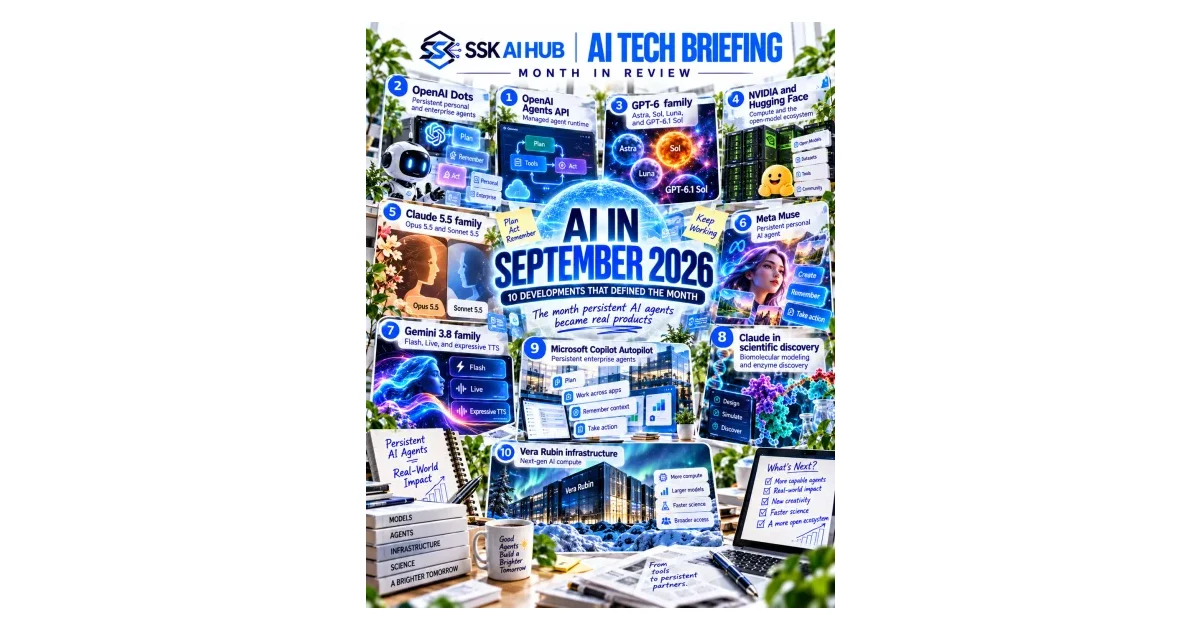
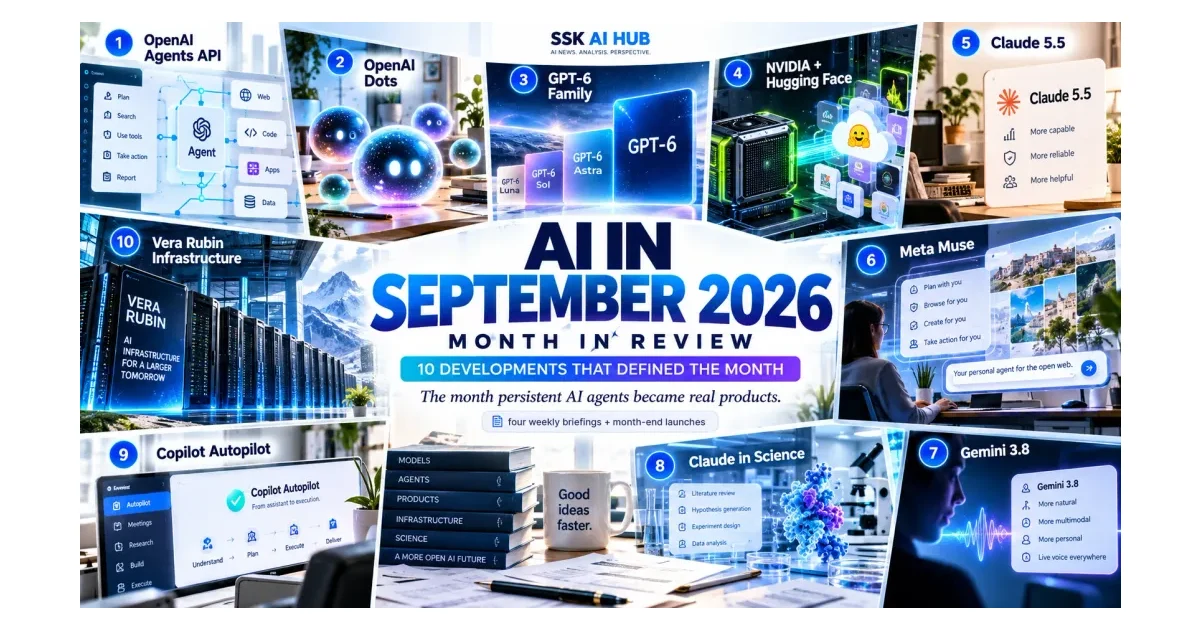
Use new horizontal and vertical covers for September monthly
Replace the September 2026 Month in Review artwork with an editor-supplied
pair matching the August edition: a wide 1672×941 hero and a vertical
1122×1402 capsule; the social card is regenerated from the hero.

Fixed inaccurate text in the supplied covers before publishing:
- GPT-6 card labeled nonexistent models (GPT-6 Nani/Pro/Mini); relabeled
  to the real September tiers Luna, Sol and Astra on both covers.
- Vertical cover's Dots note said "Smaller AIs. Bigger possibilities.";
  Dots are always-on agents, so it now reads "Always-on agents. Own
  cloud computer."
- Hero's "drawn from four weekly SSK AI Hub briefings" was untrue for
  Dots, Autopilot and Vera Rubin; now "four weekly briefings + month-end
  launches".

Claude-Session: https://claude.ai/code/session_01Qan1195ZXBavzk9qrkUSSt

diff --git a/lib/ssk-ai/issue-2026-10-01.ts b/lib/ssk-ai/issue-2026-10-01.ts
@@ -35,12 +35,13 @@ export const issueSeptember2026Monthly: SskAiIssue = {
   theme: "September was the month persistent AI agents became real products — and the system around the model became the product.",
   hero: {
     kind: "editorial-image",
-    src: "/ssk-ai/2026-10-01/ssk-ai-september-2026-social-1200x630.webp",
-    width: 1200,
-    height: 630,
-    alt: "Month-in-review cover reading 'AI in September 2026 — 10 developments that defined the month: the month persistent AI agents became real products', with numbered cards for the OpenAI Agents API, OpenAI Dots, the GPT-6 family, NVIDIA and Hugging Face, the Claude 5.5 family, Meta Muse, the Gemini 3.8 family, Claude in scientific discovery, Microsoft Copilot Autopilot and Vera Rubin infrastructure.",
-    caption: "September in one frame: the month's ten defining developments. The full-size capsule and the accessible cards follow below.",
-    description: "Editor-supplied September 2026 Month in Review cover, shown whole on a padded wide frame.",
+    src: "/ssk-ai/2026-10-01/ssk-ai-september-2026-hero.webp",
+    width: 1672,
+    height: 941,
+    alt: "Month-in-review cover reading 'AI in September 2026 — Month in Review: 10 developments that defined the month. The month persistent AI agents became real products', surrounded by numbered scenes for the OpenAI Agents API, OpenAI Dots, the GPT-6 family (Luna, Sol, Astra), NVIDIA and Hugging Face, Claude 5.5, Meta Muse, Gemini 3.8, Claude in science, Copilot Autopilot and Vera Rubin infrastructure.",
+    caption:
+      "September in one frame: the month's ten defining developments, drawn from four weekly SSK AI Hub briefings and the month-end launches.",
+    description: "Editor-supplied wide cover for the September 2026 Month in Review, in the light SSK AI Hub editorial style.",
   },
   socialImage: {
     src: "/ssk-ai/2026-10-01/ssk-ai-september-2026-social-1200x630.webp",
@@ -63,7 +64,7 @@ export const issueSeptember2026Monthly: SskAiIssue = {
       src: "/ssk-ai/2026-10-01/ssk-ai-september-2026-capsule.webp",
       width: 1122,
       height: 1402,
-      alt: "A one-page visual capsule of September 2026 listing the month's ten AI developments in numbered cards — OpenAI Agents API, OpenAI Dots, the GPT-6 family (Astra, Sol, Luna and GPT-6.1 Sol), NVIDIA and Hugging Face, the Claude 5.5 family, Meta Muse, the Gemini 3.8 family, Claude in scientific discovery, Microsoft Copilot Autopilot and Vera Rubin infrastructure — around the headline 'The month persistent AI agents became real products'.",
+      alt: "A one-page visual capsule of September 2026 with ten numbered cards and handwritten notes — OpenAI Agents API, OpenAI Dots ('always-on agents, own cloud computer'), the GPT-6 family (Luna, Sol, Astra), NVIDIA and Hugging Face, Claude 5.5, Meta Muse, Gemini 3.8, Claude in science, Copilot Autopilot and Vera Rubin infrastructure — around the headline 'The month persistent AI agents became real products'.",
       caption:
         "The September capsule: all ten developments on one page. The cards below tell the same story in accessible text, with links to the full analyses and primary sources.",
       description:
